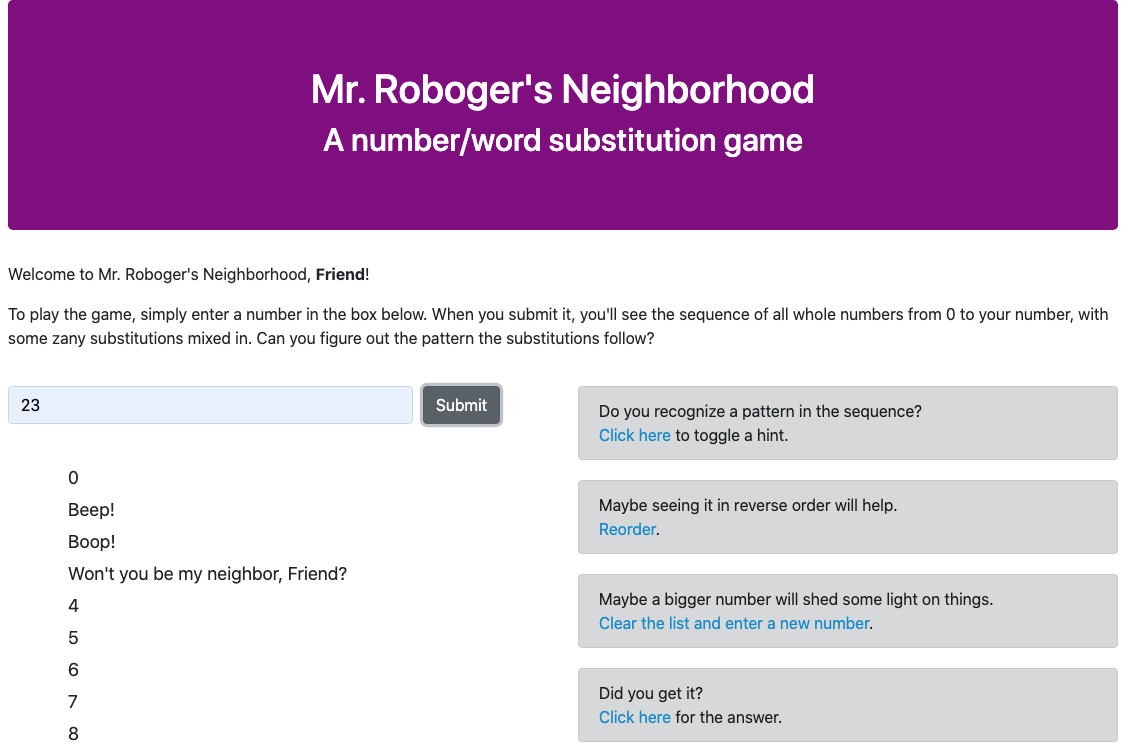
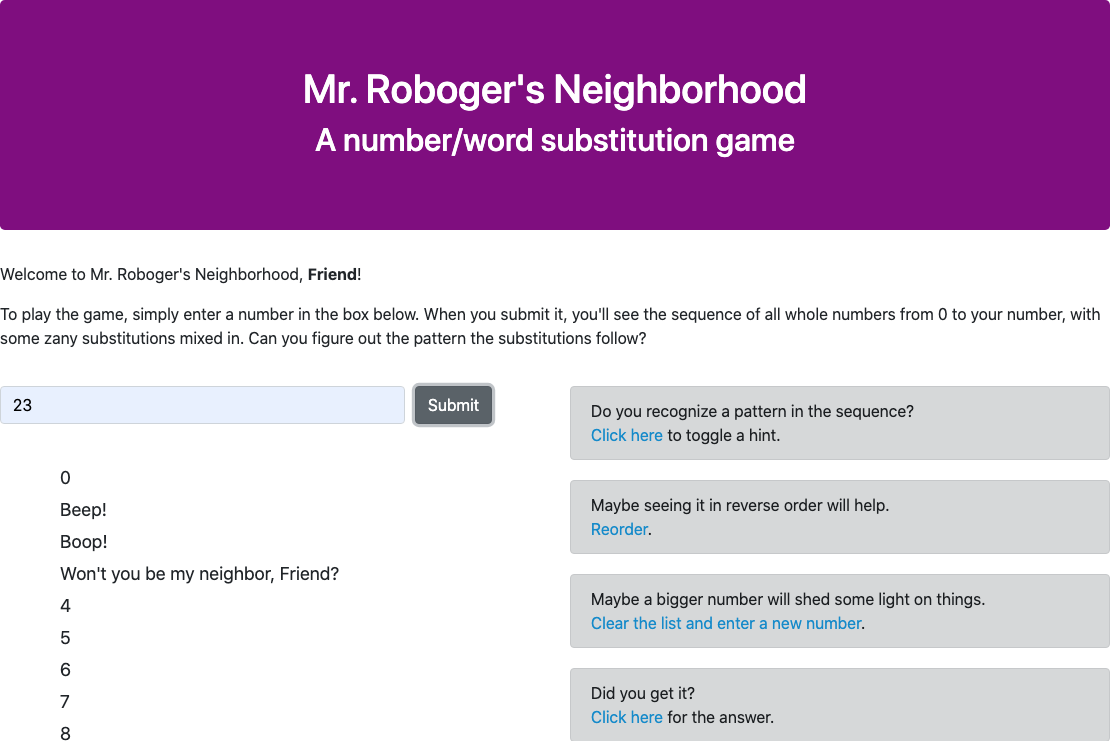
Update known bugs to none and crop white border from preview image

diff --git a/README.md b/README.md
@@ -57,8 +57,8 @@ Submit a number to receive a sequence of whole numbers, from 0 to your number, w
   ```
 
 ## Known Bugs
-* The program will fail to generate the game's number sequence if a non-numeric value is inputted
-* Please let me know of any bugs you find at the email address below 
+* No known bugs.
+* Please contact me at the email address below if you'd like to report a bug.
 
 ## License
 [GPLv3](https://choosealicense.com/licenses/gpl-3.0/)\
